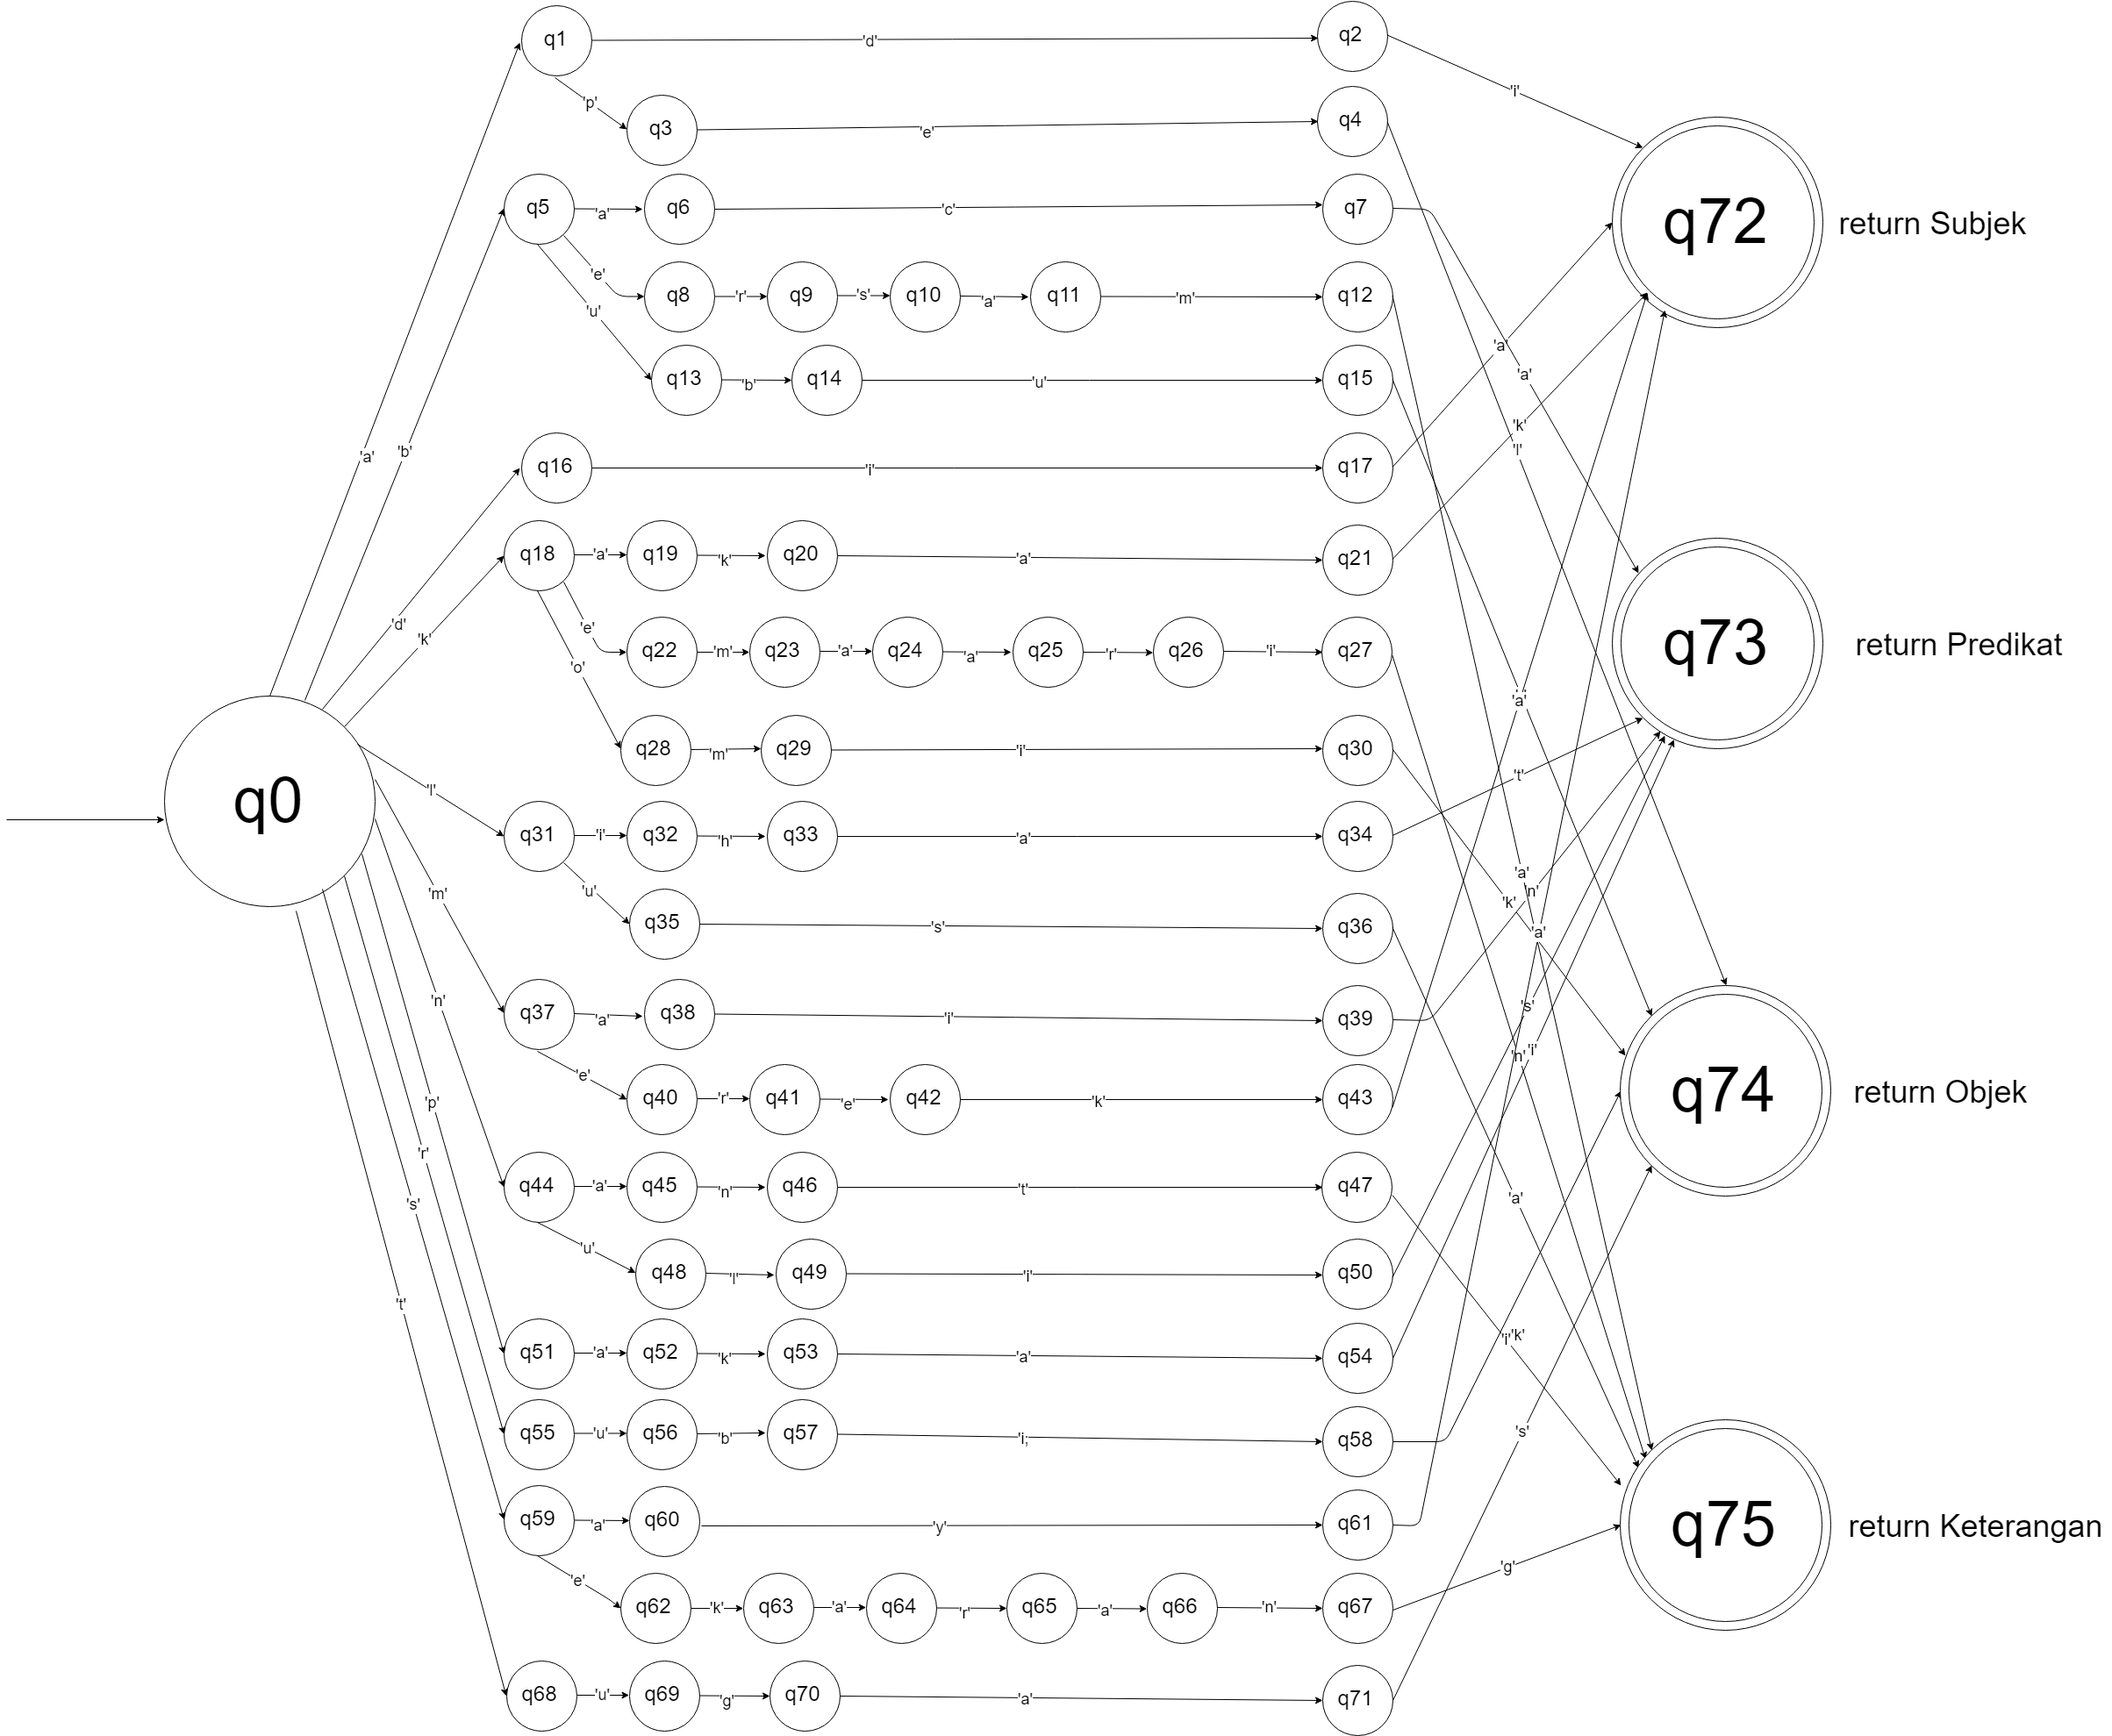
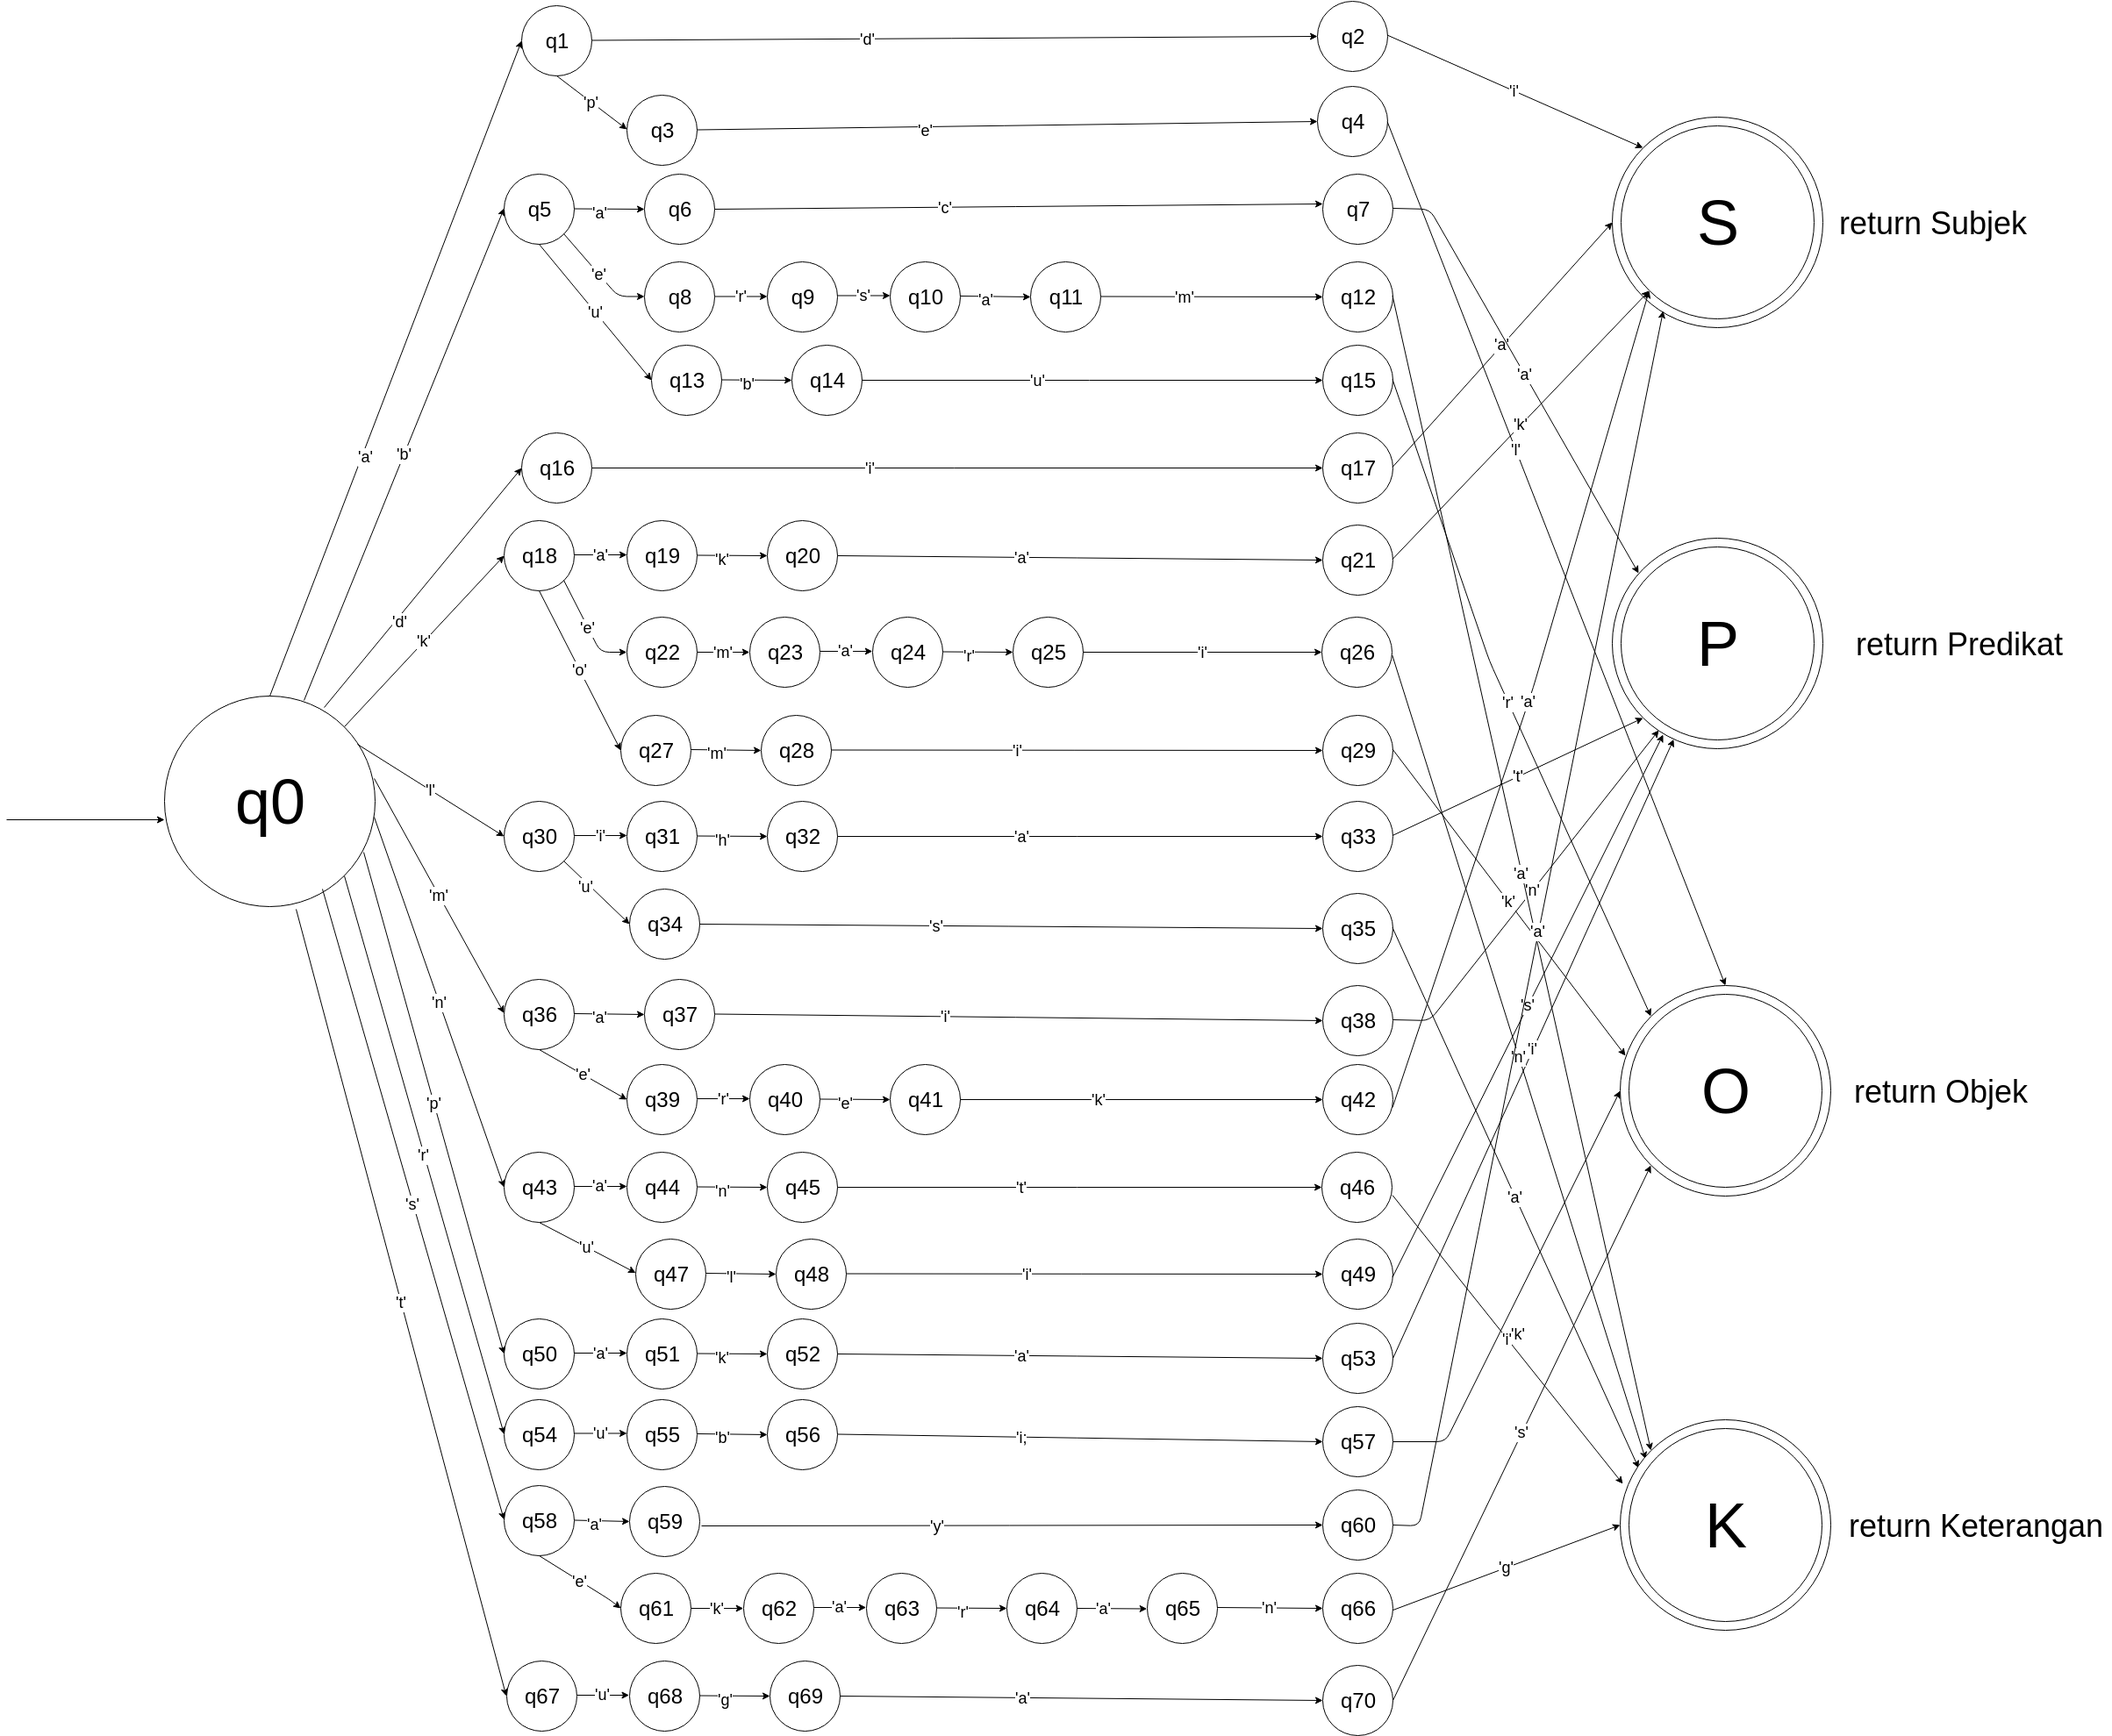
updating diagram

diff --git a/main.cpp b/main.cpp
@@ -142,7 +142,7 @@ bool isPattern(vector<string> v) {
     cout << '\n';
 
     // pop the last one
-    if (top(PDA) == 'P' || top(PDA) == 'O' || top(PDA) == 'k') PDA.pop_back();
+    if (top(PDA) == 'P' || top(PDA) == 'O' || top(PDA) == 'K') PDA.pop_back();
 
     // check whether the PDA is empty
     return top(PDA) == '#' ? 1 : 0;

diff --git a/README.md b/README.md
@@ -16,11 +16,12 @@ Pada tugas ini struktur kalimat berita aktif dengan struktur:
 ![](https://raw.githubusercontent.com/ehardi19/indonesian-sentence-parser/master/images/FA.png)
 
 **Context Free Grammar** untuk mengecek kevalidan struktur kalimat:
-* qo → sq1
-* q1 → pq2
-* q2 → oq3 | kq4 | λ
-* q3 → kq4 | λ
-* q4 → λ
+* Q → sS
+* S → pP
+* P → oO | kK | λ
+* O → kK | λ
+* K → λ
+
 
 **Pushdown Automata** untuk mengecek kevalidan struktur kalimat
 ![](https://raw.githubusercontent.com/ehardi19/indonesian-sentence-parser/master/images/PDA.png)
